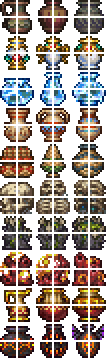
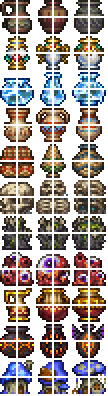
Mushroom pots

diff --git a/Content/Underground/WayfarerSet/WayfarerPlayer.cs b/Content/Underground/WayfarerSet/WayfarerPlayer.cs
@@ -1,10 +1,9 @@
 using SpiritReforged.Common.Particle;
 using SpiritReforged.Common.PlayerCommon;
-using SpiritReforged.Content.Ocean.Items.Pearl;
 using SpiritReforged.Content.Particles;
-using Terraria;
+using SpiritReforged.Content.Underground.Tiles;
+using System.Linq;
 using Terraria.Audio;
-using Terraria.ModLoader;
 
 namespace SpiritReforged.Content.Underground.WayfarerSet;
 
@@ -27,59 +26,45 @@ internal class WayfarerPlayer : ModPlayer
 
 	public override void PostUpdateEquips()
 	{
-		Item bodyVanitySlot = Player.armor[11];
-		Item bodyArmorSlot = Player.armor[1];
-		if (bodyVanitySlot.type == ModContent.ItemType<WayfarerBody>() || bodyArmorSlot.type == ModContent.ItemType<WayfarerBody>() && bodyVanitySlot.IsAir)
-			Player.back = (sbyte)EquipLoader.GetEquipSlot(Mod, nameof(WayfarerBody), EquipType.Back);
+		if (active)
+			Player.GetModPlayer<CoinLootPlayer>().enemyCoinMultiplier = 1.1f;
 	}
 }
 
-internal class WayfarerNPC : GlobalNPC
+internal class WayfarerGlobalTile : GlobalTile
 {
-	public override bool PreKill(NPC npc)
-	{
-		if (Main.player[npc.lastInteraction].GetModPlayer<WayfarerPlayer>().active)
-			npc.value *= 1.1f; //+10% coin drops (same as pearl string)
+	private static readonly int[] PotTypes = [TileID.Pots, ModContent.TileType<BiomePots>(), ModContent.TileType<StackablePots>(), ModContent.TileType<MushroomPots>()];
 
-		return true;
-	}
-}
-
-internal class WayfarerTile : GlobalTile
-{
 	public override void KillTile(int i, int j, int type, ref bool fail, ref bool effectOnly, ref bool noItem)
 	{
-		if (!Main.dedServ)
+		if (Main.dedServ)
+			return;
+
+		var player = Main.player[Player.FindClosest(new Vector2(i, j).ToWorldCoordinates(), 16, 16)];
+
+		if (player.GetModPlayer<WayfarerPlayer>().active && PotTypes.Contains(type))
 		{
-			// TODO: Add all pot variants here
-			Player player = Main.LocalPlayer;
-			if (player.GetModPlayer<WayfarerPlayer>().active && type == TileID.Pots)
-			{
-				if (!player.HasBuff(ModContent.BuffType<ExplorerPot>()))
-					DoFX();
+			if (!player.HasBuff<ExplorerPot>())
+				DoFX(player);
 
-				player.AddBuff(ModContent.BuffType<ExplorerPot>(), 600);
-			}
+			player.AddBuff(ModContent.BuffType<ExplorerPot>(), 600);
+		}
 
-			if (player.GetModPlayer<WayfarerPlayer>().active && Main.tileSpelunker[type] && Main.tileSolid[type])
-			{
-				if (!player.HasBuff(ModContent.BuffType<ExplorerMine>()))
-					DoFX();
+		if (player.GetModPlayer<WayfarerPlayer>().active && Main.tileSpelunker[type] && Main.tileSolid[type])
+		{
+			if (!player.HasBuff<ExplorerMine>())
+				DoFX(player);
 
-				player.AddBuff(ModContent.BuffType<ExplorerMine>(), 600);
-			}
+			player.AddBuff(ModContent.BuffType<ExplorerMine>(), 600);
 		}
 	}
 
-	public void DoFX()
+	private static void DoFX(Player player)
 	{
-		Player player = Main.LocalPlayer;
 		SoundEngine.PlaySound(SoundID.DD2_DarkMageCastHeal with { Pitch = 2f }, player.Center);
 		SoundEngine.PlaySound(new SoundStyle("SpiritReforged/Assets/SFX/Ambient/PositiveOutcome") with { Pitch = -.35f }, player.Center);
 
 		for (int i = 0; i < 12; i++)
 			ParticleHandler.SpawnParticle(new GlowParticle(player.Center, Main.rand.NextVector2CircularEdge(1, 1), Color.PapayaWhip, Main.rand.NextFloat(0.25f, 0.4f), Main.rand.Next(30, 50), 8));
-
 	}
 }
-

diff --git a/Content/Underground/Tiles/MushroomPots.cs b/Content/Underground/Tiles/MushroomPots.cs
@@ -1,0 +1,58 @@
+using Terraria.Audio;
+using Terraria.DataStructures;
+
+namespace SpiritReforged.Content.Underground.Tiles;
+
+public class MushroomPots : ModTile
+{
+	public override void SetStaticDefaults()
+	{
+		const int row = 3;
+
+		Main.tileSolid[Type] = false;
+		Main.tileBlockLight[Type] = false;
+		Main.tileCut[Type] = true;
+		Main.tileFrameImportant[Type] = true;
+		Main.tileSpelunker[Type] = true;
+
+		TileObjectData.newTile.CopyFrom(TileObjectData.Style2x2);
+		TileObjectData.newTile.Origin = new(0, 1);
+		TileObjectData.newTile.AnchorBottom = new AnchorData(AnchorType.SolidTile | AnchorType.SolidWithTop, TileObjectData.newTile.Width, 0);
+		TileObjectData.newTile.StyleWrapLimit = row;
+		TileObjectData.newTile.RandomStyleRange = row;
+		TileObjectData.newTile.StyleHorizontal = true;
+		TileObjectData.newTile.UsesCustomCanPlace = true;
+		TileObjectData.newTile.DrawYOffset = 2;
+		TileObjectData.addTile(Type);
+
+		AddMapEntry(new Color(100, 90, 35), Language.GetText("MapObject.Pot"));
+		DustType = DustID.Pot;
+	}
+
+	public override void KillTile(int i, int j, ref bool fail, ref bool effectOnly, ref bool noItem)
+	{
+		if (effectOnly || fail)
+			return;
+
+		//Do vanilla pot break effects
+		var t = Main.tile[i, j];
+		short oldFrameY = t.TileFrameY;
+
+		t.TileFrameY = t.TileFrameX;
+		WorldGen.CheckPot(i, j);
+		t.TileFrameY = oldFrameY;
+	}
+
+	public override bool KillSound(int i, int j, bool fail)
+	{
+		if (!fail)
+		{
+			var pos = new Vector2(i, j).ToWorldCoordinates(16, 16);
+			SoundEngine.PlaySound(SoundID.Shatter, pos);
+
+			return false;
+		}
+
+		return true;
+	}
+}

diff --git a/Content/Underground/Tiles/BiomePots.cs b/Content/Underground/Tiles/BiomePots.cs
@@ -12,7 +12,7 @@ public class BiomePots : ModTile
 {
 	public enum Style : int
 	{
-		Cavern, Gold, Ice, Desert, Jungle, Dungeon, Corruption, Crimson, Marble, Hell
+		Cavern, Gold, Ice, Desert, Jungle, Dungeon, Corruption, Crimson, Marble, Hell, Mushroom
 	}
 
 	/// <summary> Unit for distance-based vfx. </summary>
@@ -74,7 +74,7 @@ public class BiomePots : ModTile
 			var world = new Vector2(i, j) * 16;
 			float strength = Main.LocalPlayer.DistanceSQ(world) / (DistMod * DistMod);
 
-			if (strength < 1 && Main.rand.NextFloat(5f) < 1f - strength)
+			if (strength < 1 && Main.rand.NextFloat(8f) < 1f - strength)
 			{
 				var d = Dust.NewDustDirect(world, 16, 16, DustID.TreasureSparkle, 0, 0, Scale: Main.rand.NextFloat());
 				d.noGravity = true;
@@ -328,7 +328,7 @@ public class BiomePots : ModTile
 
 				if (style == Style.Desert)
 					type = ItemID.FossilOre;
-				else if (style == Style.Dungeon)
+				else if (style == Style.Dungeon && NPC.downedBoss3)
 					type = ItemID.Bone;
 				else if (style == Style.Marble)
 					type = ItemID.Javelin;
@@ -384,7 +384,8 @@ public class BiomePots : ModTile
 				{ Style.Corruption, [ItemID.CorruptTorch, ItemID.UnholyArrow] },
 				{ Style.Crimson, [ItemID.CrimsonTorch, ItemID.UnholyArrow] },
 				{ Style.Marble, [ItemID.YellowTorch, ItemID.JestersArrow] },
-				{ Style.Hell, [ItemID.DemonTorch, ItemID.HellfireArrow] }
+				{ Style.Hell, [ItemID.DemonTorch, ItemID.HellfireArrow] },
+				{ Style.Mushroom, [ItemID.MushroomTorch, ItemID.WoodenArrow] }
 			};
 
 			int index = (context == "arrow") ? 1 : 0;

diff --git a/Common/WorldGeneration/Micropasses/Passes/PotsMicropass.cs b/Common/WorldGeneration/Micropasses/Passes/PotsMicropass.cs
@@ -10,6 +10,24 @@ internal class PotsMicropass : Micropass
 {
 	public override string WorldGenName => "Pots";
 
+	public override void Load(Mod mod) => On_WorldGen.PlacePot += MushroomPotConversion;
+
+	/// <summary> 50% chance to replace regular pots placed on mushroom grass. </summary>
+	private static bool MushroomPotConversion(On_WorldGen.orig_PlacePot orig, int x, int y, ushort type, int style)
+	{
+		if (WorldGen.generatingWorld && Main.rand.NextBool())
+		{
+			var ground = Main.tile[x, y + 1];
+			if (ground.HasTile && ground.TileType == TileID.MushroomGrass)
+			{
+				WorldGen.PlaceTile(x, y, ModContent.TileType<MushroomPots>(), true, style: Main.rand.Next(3));
+				return false; //Skips orig
+			}
+		}
+
+		return orig(x, y, type, style);
+	}
+
 	public override int GetWorldGenIndexInsert(List<GenPass> passes, ref bool afterIndex)
 	{
 		afterIndex = true;
@@ -76,10 +94,12 @@ internal class PotsMicropass : Micropass
 			style = GetRange(BiomePots.Style.Crimson);
 		else if (tile is TileID.Marble)
 			style = GetRange(BiomePots.Style.Marble);
+		else if (tile is TileID.MushroomGrass)
+			style = GetRange(BiomePots.Style.Mushroom);
 
 		if (y > Main.UnderworldLayer)
 			style = GetRange(BiomePots.Style.Hell);
-		else if (tile is TileID.BlueDungeonBrick or TileID.GreenDungeonBrick or TileID.PinkDungeonBrick || Main.wallDungeon[wall])
+		else if (tile is TileID.BlueDungeonBrick or TileID.GreenDungeonBrick or TileID.PinkDungeonBrick && Main.wallDungeon[wall])
 			style = GetRange(BiomePots.Style.Dungeon);
 
 		if (style != -1)

diff --git a/Content/Underground/WayfarerSet/WayfarerBody.cs b/Content/Underground/WayfarerSet/WayfarerBody.cs
@@ -5,10 +5,8 @@ public class WayfarerBody : ModItem
 {
 	public override void Load()
 	{
-		if (Main.netMode == NetmodeID.Server)
-			return;
-
-		EquipLoader.AddEquipTexture(Mod, $"{Texture}_{EquipType.Back}", EquipType.Back, this);
+		if (!Main.dedServ)
+			EquipLoader.AddEquipTexture(Mod, $"{Texture}_{EquipType.Back}", EquipType.Back, this);
 	}
 
 	public override void SetStaticDefaults() => ArmorIDs.Body.Sets.NeedsToDrawArm[Item.bodySlot] = true;
@@ -25,8 +23,14 @@ public class WayfarerBody : ModItem
 	public override void UpdateEquip(Player player)
 	{
 		player.moveSpeed += 0.05f;
-		player.runAcceleration += .01f;
+		player.runAcceleration += 0.01f;
+	}
 
-		player.back = (sbyte)EquipLoader.GetEquipSlot(Mod, $"{Texture}_{EquipType.Back}", EquipType.Back);
+	public override void EquipFrameEffects(Player player, EquipType type)
+	{
+		var bodyVanitySlot = player.armor[11];
+
+		if (bodyVanitySlot.IsAir || bodyVanitySlot.type == Type)
+			player.back = (sbyte)EquipLoader.GetEquipSlot(Mod, nameof(WayfarerBody), EquipType.Back);
 	}
 }

diff --git a/Content/Underground/WayfarerSet/ExplorerPot.cs b/Content/Underground/WayfarerSet/ExplorerPot.cs
@@ -1,12 +1,13 @@
 namespace SpiritReforged.Content.Underground.WayfarerSet;
 
-class ExplorerPot : ModBuff
+public class ExplorerPot : ModBuff
 {
 	public override void SetStaticDefaults() => Main.buffNoTimeDisplay[Type] = false;
 
 	public override void Update(Player player, ref int buffIndex)
 	{
 		WayfarerPlayer wayfarerPlayer = player.GetModPlayer<WayfarerPlayer>();
+
 		player.moveSpeed += wayfarerPlayer.movementStacks * .2f;
 		player.runAcceleration += wayfarerPlayer.movementStacks * .06f;
 	}

diff --git a/Content/Ocean/Items/Pearl/PearlString.cs b/Content/Ocean/Items/Pearl/PearlString.cs
@@ -23,17 +23,8 @@ public class PearlString : AccessoryItem
 	public override void UpdateAccessory(Player player, bool hideVisual)
 	{
 		base.UpdateAccessory(player, hideVisual);
+
 		player.luck += .15f;
-	}
-}
-
-internal class PearlStringNPC : GlobalNPC
-{
-	public override bool PreKill(NPC npc)
-	{
-		if (Main.player[npc.lastInteraction].HasAccessory<PearlString>())
-			npc.value *= 1.1f; //+10% coin drops
-
-		return true;
+		player.GetModPlayer<CoinLootPlayer>().enemyCoinMultiplier = 1.1f;
 	}
 }

diff --git a/Common/PlayerCommon/CoinLootPlayer.cs b/Common/PlayerCommon/CoinLootPlayer.cs
@@ -1,0 +1,20 @@
+namespace SpiritReforged.Common.PlayerCommon;
+
+internal class CoinLootPlayer : ModPlayer
+{
+	public float enemyCoinMultiplier = 1;
+	public override void ResetEffects() => enemyCoinMultiplier = 1;
+}
+
+internal class CoinLootNPC : GlobalNPC
+{
+	public override bool PreKill(NPC npc)
+	{
+		var p = Main.player[npc.lastInteraction];
+		float mult = p.GetModPlayer<CoinLootPlayer>().enemyCoinMultiplier;
+
+		npc.value *= mult;
+
+		return true;
+	}
+}

diff --git a/Content/Underground/WayfarerSet/ExplorerMine.cs b/Content/Underground/WayfarerSet/ExplorerMine.cs
@@ -1,6 +1,6 @@
 namespace SpiritReforged.Content.Underground.WayfarerSet;
 
-class ExplorerMine : ModBuff
+public class ExplorerMine : ModBuff
 {
 	public override void SetStaticDefaults() => Main.buffNoTimeDisplay[Type] = false;
 
